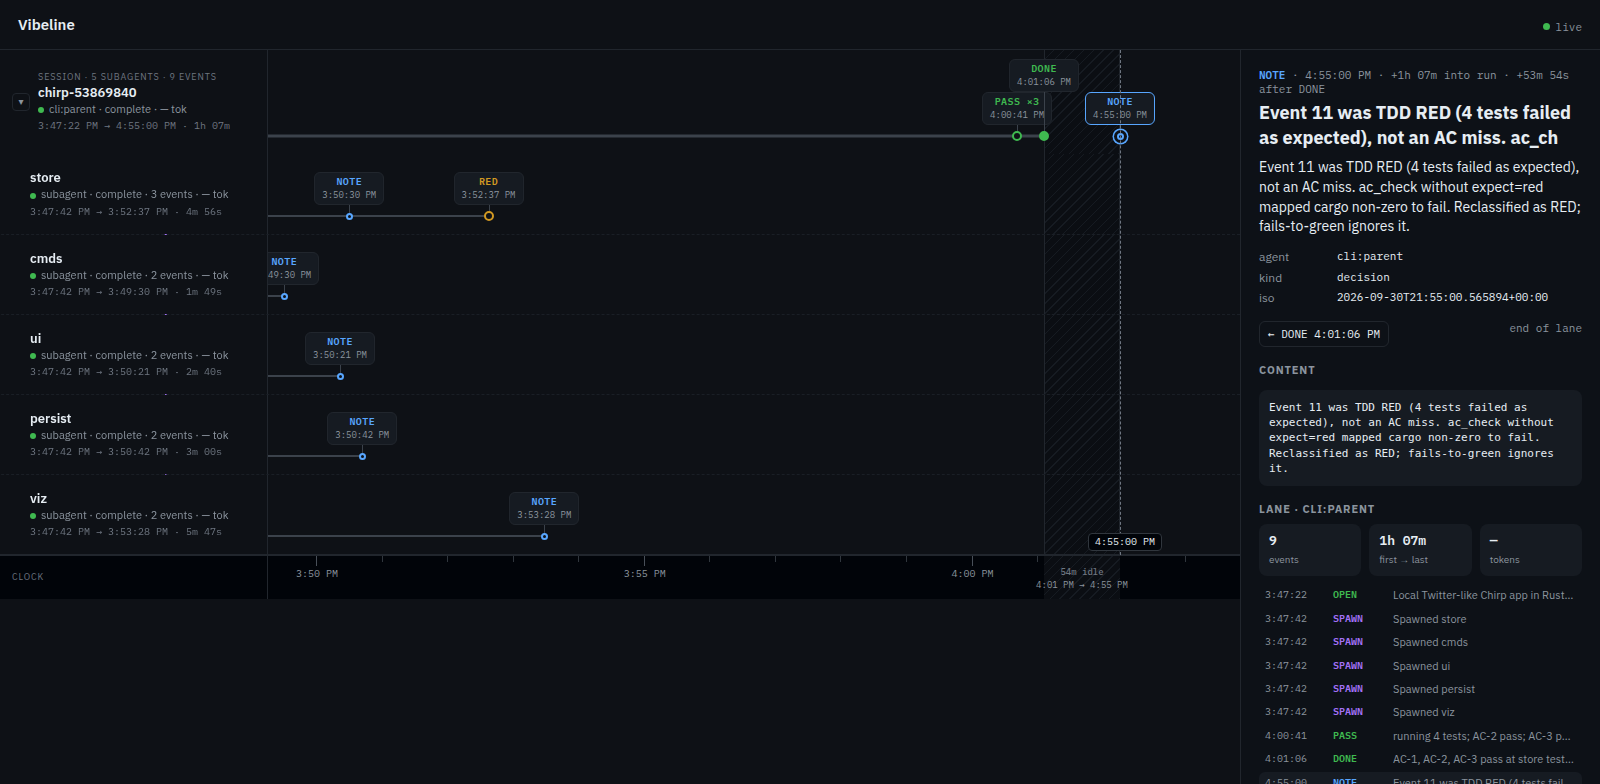
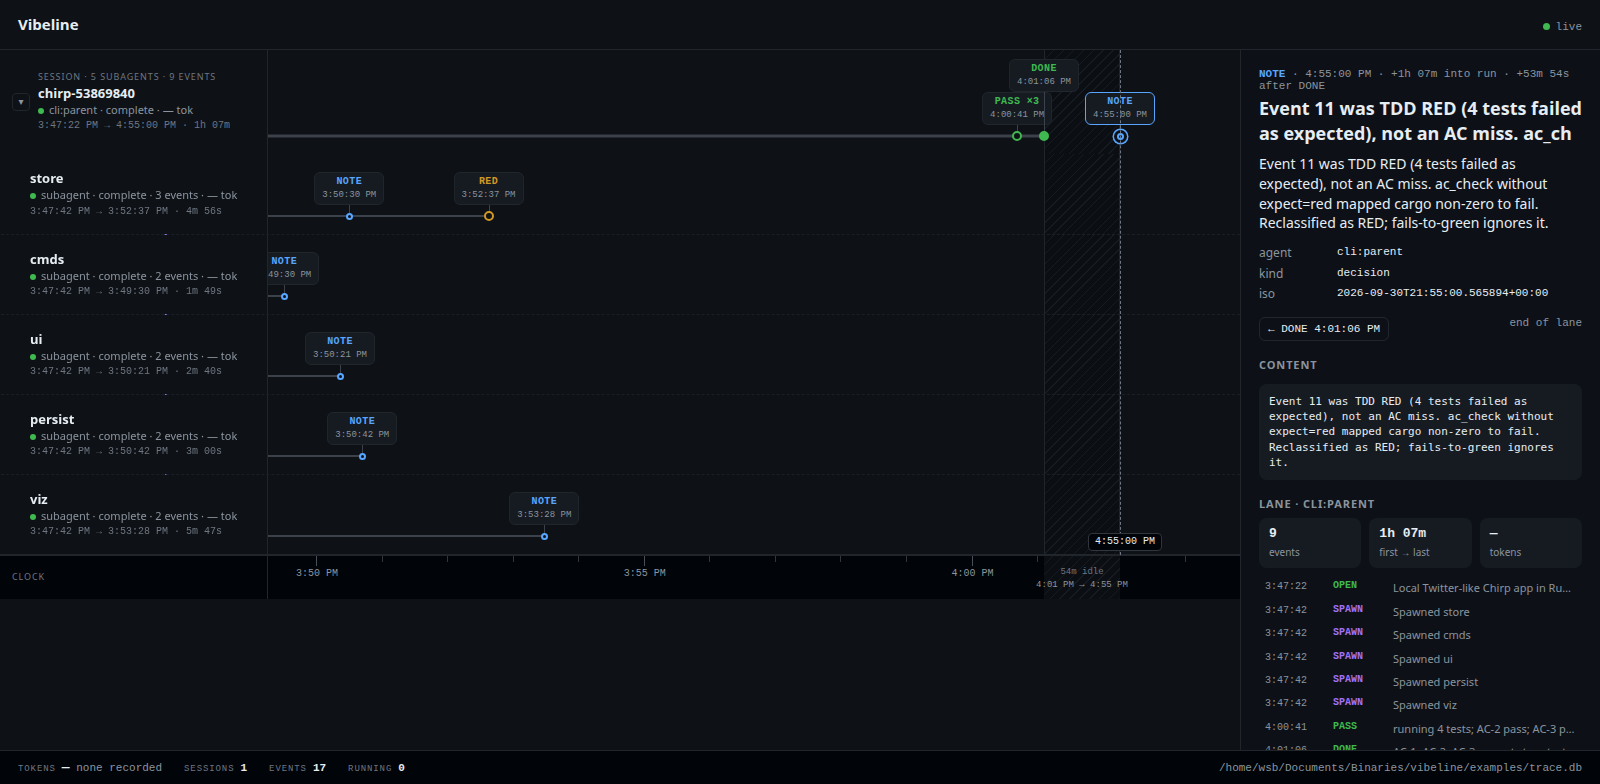
Catalog readiness: system fonts, disclosure section, requires_hermes, drop private Hermes import
- web/index.html: replace Google Fonts with system-ui / ui-monospace stacks; no third-party loads
- cli.py: render markdown with rich.markdown instead of hermes_cli private helper (catalog rule 9)
- plugin.yaml: declare requires_hermes >=0.22.0 (catalog rule 14)
- README: add disclosure section (catalog rule 13); retake web screenshots

diff --git a/web/index.html b/web/index.html
@@ -1,13 +1,14 @@
 <!DOCTYPE html>
 <html lang="en"><head>
 <meta charset="utf-8"/><title>Vibeline</title>
-<link href="https://fonts.googleapis.com/css2?family=IBM+Plex+Sans:wght@400;500;600;700&family=IBM+Plex+Mono:wght@400;500;600&display=swap" rel="stylesheet">
 <style>
-:root { --bg:#0e1116; --bg2:#0b0e13; --card:#161b22; --ink:#e6edf3; --mut:#8b949e; --dim:#6e7681;
+:root { --sans:system-ui,-apple-system,"Segoe UI",Roboto,Ubuntu,Cantarell,"Helvetica Neue",Arial,sans-serif;
+  --mono:ui-monospace,"SF Mono",Menlo,Consolas,"Liberation Mono","DejaVu Sans Mono",monospace;
+  --bg:#0e1116; --bg2:#0b0e13; --card:#161b22; --ink:#e6edf3; --mut:#8b949e; --dim:#6e7681;
   --line:#21262d; --rail:#3b424b; --railhot:#6e7681;
   --ok:#3fb950; --bad:#f85149; --fix:#d29922; --sp:#a371f7; --namew:268px; --rowh:104px; --subh:80px; --railoff:18px; }
 *{box-sizing:border-box}
-html,body{margin:0;height:100%;background:var(--bg);color:var(--ink);font:14px/1.4 "IBM Plex Sans",system-ui}
+html,body{margin:0;height:100%;background:var(--bg);color:var(--ink);font:14px/1.4 var(--sans)}
 header{display:flex;align-items:baseline;gap:16px;padding:14px 18px;border-bottom:1px solid var(--line)}
 h1{margin:0;font-size:15px;font-weight:600}
 .lede{color:var(--mut);font-size:12px;max-width:560px;margin:0}
@@ -28,7 +29,7 @@ h1{margin:0;font-size:15px;font-weight:600}
 .row.sub .name{padding-left:30px}
 .name b{display:block;font-size:13px;font-weight:600}
 .name span{color:var(--mut);font-size:11px;display:block;white-space:nowrap}
-.name .meta{font-family:"IBM Plex Mono",monospace;font-size:10px;color:var(--dim);margin-top:2px;white-space:nowrap}
+.name .meta{font-family:var(--mono);font-size:10px;color:var(--dim);margin-top:2px;white-space:nowrap}
 .parent-lab{font-size:9px;color:var(--dim);letter-spacing:.1em;text-transform:uppercase}
 .toggle{cursor:pointer;border:1px solid var(--line);background:transparent;color:var(--mut);width:18px;height:18px;border-radius:4px;font-size:10px;line-height:1;padding:0}
 .group:not(.open) .toggle{transform:rotate(-90deg)}
@@ -46,7 +47,7 @@ h1{margin:0;font-size:15px;font-weight:600}
 /* the break in the axis */
 .gap{position:absolute;top:0;bottom:0;background:var(--bg2);border-left:1px solid var(--line);border-right:1px solid var(--line);z-index:1;
   background-image:repeating-linear-gradient(135deg,transparent 0 6px,#161b22 6px 7px)}
-.gap i{position:absolute;left:50%;top:50%;transform:translate(-50%,-50%);font:9px/1 "IBM Plex Mono",monospace;color:var(--dim);
+.gap i{position:absolute;left:50%;top:50%;transform:translate(-50%,-50%);font:9px/1 var(--mono);color:var(--dim);
   background:var(--bg2);padding:2px 5px;border-radius:3px;font-style:normal;white-space:nowrap}
 .row.sub .gap i{display:none}
 
@@ -60,7 +61,7 @@ h1{margin:0;font-size:15px;font-weight:600}
 .leader.h{height:1px}
 .card{position:absolute;transform:translateX(-50%);cursor:pointer;z-index:3;
   padding:3px 7px 4px;border-radius:6px;background:var(--card);border:1px solid var(--line);
-  font:10px/1.15 "IBM Plex Mono",monospace;text-align:center;white-space:nowrap}
+  font:10px/1.15 var(--mono);text-align:center;white-space:nowrap}
 .card b{display:block;font-weight:600;letter-spacing:.04em;font-size:10px}
 .card small{display:block;color:var(--mut);font-size:9px;margin-top:2px}
 .card.t1{bottom:11px} .card.t2{bottom:44px}
@@ -87,24 +88,24 @@ svg.links path.blocked{stroke:var(--bad)}
 .foot-track{flex:1;position:relative}
 .tk{position:absolute;top:0;height:6px;border-left:1px solid #30363d}
 .tk.maj{height:10px;border-color:#484f58}
-.tk span{position:absolute;left:0;top:13px;transform:translateX(-50%);font:10px/1 "IBM Plex Mono",monospace;color:var(--mut);white-space:nowrap}
+.tk span{position:absolute;left:0;top:13px;transform:translateX(-50%);font:10px/1 var(--mono);color:var(--mut);white-space:nowrap}
 .tk.gapmark{border:0;top:0;height:100%;background:var(--bg2) repeating-linear-gradient(135deg,transparent 0 6px,#161b22 6px 7px)}
 .tk.gapmark span{color:var(--mut);top:10px;font-size:9px;line-height:1.4;text-align:center}
 .tk.gapmark span b{display:block;color:var(--dim);font-weight:500}
 
 /* hover guide */
 .guide{position:absolute;top:0;width:0;border-left:1px dashed var(--railhot);z-index:5;pointer-events:none;display:none}
-.guide em{position:absolute;bottom:4px;left:4px;transform:translateX(-50%);font:10px/1 "IBM Plex Mono",monospace;color:var(--ink);
+.guide em{position:absolute;bottom:4px;left:4px;transform:translateX(-50%);font:10px/1 var(--mono);color:var(--ink);
   background:#010409;border:1px solid #30363d;padding:3px 6px;border-radius:4px;font-style:normal;white-space:nowrap}
 
 /* panel */
 .panel{width:360px;flex:0 0 360px;border-left:1px solid var(--line);overflow:auto;padding:18px;background:#0d1117}
 .panel h2{margin:0 0 8px;font-size:18px}
 .panel h3{margin:16px 0 6px;font-size:11px;color:var(--mut);letter-spacing:.08em;text-transform:uppercase}
-.kicker{font:11px "IBM Plex Mono",monospace;margin:0 0 4px;color:var(--mut)}
+.kicker{font:11px var(--mono);margin:0 0 4px;color:var(--mut)}
 .kicker b{font-weight:600}
 dl{display:grid;grid-template-columns:70px 1fr;gap:4px 8px;font-size:12px;margin:0}
-dt{color:var(--mut)} dd{margin:0;font-family:"IBM Plex Mono",monospace;font-size:11px}
+dt{color:var(--mut)} dd{margin:0;font-family:var(--mono);font-size:11px}
 pre{background:#161b22;padding:10px;border-radius:8px;white-space:pre-wrap;font-size:11px;overflow:auto}
 .ac{list-style:none;padding:0;margin:0}
 .ac .ok{color:var(--ok)} .ac .no{color:var(--bad)}
@@ -117,15 +118,15 @@ figcaption{font-size:10px;color:var(--mut);margin-top:4px}
 .src{margin:12px 0 0;padding:10px 12px;border:1px solid var(--line);border-radius:8px;background:#0f1319;font-size:11px}
 .src .hd{display:flex;align-items:center;gap:8px;margin-bottom:6px}
 .src .hd b{font-size:12px}
-.trk{font:9px/1 "IBM Plex Mono",monospace;letter-spacing:.08em;text-transform:uppercase;padding:3px 6px;border-radius:4px;border:1px solid}
+.trk{font:9px/1 var(--mono);letter-spacing:.08em;text-transform:uppercase;padding:3px 6px;border-radius:4px;border:1px solid}
 .trk.linear{color:#5e6ad2;border-color:#5e6ad2} .trk.github{color:#e6edf3;border-color:#8b949e} .trk.jira{color:#2684ff;border-color:#2684ff}
-.src .br{font:10px "IBM Plex Mono",monospace;color:var(--mut);margin-bottom:8px;white-space:pre-wrap}
+.src .br{font:10px var(--mono);color:var(--mut);margin-bottom:8px;white-space:pre-wrap}
 .src .br em{color:var(--ok);font-style:normal}
 .src dl{grid-template-columns:64px 1fr;font-size:11px}
 .src dd{font-size:10px;color:var(--mut)} .src dd b{color:var(--ink);font-weight:500}
 .src a{color:var(--ink)}
-.name .tick{font:10px "IBM Plex Mono",monospace;color:var(--mut);display:flex;gap:6px;align-items:center;margin-top:2px}
-.lanenav{display:flex;justify-content:space-between;gap:8px;margin:14px 0 0;font:11px "IBM Plex Mono",monospace}
+.name .tick{font:10px var(--mono);color:var(--mut);display:flex;gap:6px;align-items:center;margin-top:2px}
+.lanenav{display:flex;justify-content:space-between;gap:8px;margin:14px 0 0;font:11px var(--mono)}
 .lanenav a{color:var(--ink);text-decoration:none;border:1px solid var(--line);border-radius:6px;padding:5px 8px}
 .lanenav a:hover{border-color:var(--mut)}
 .ev.quiet .dot{width:7px;height:7px;left:-3.5px;top:-3.5px}
@@ -139,11 +140,11 @@ header{flex:0 0 auto}
 .card.k-note b{color:#58a6ff}
 .card b{max-width:62px;overflow:hidden;text-overflow:ellipsis;margin:0 auto} .card.k-red b{color:var(--fix)}
 .dot.kind-note{width:7px;height:7px;left:-3.5px;top:-3.5px}
-.live{margin-left:auto;font:11px "IBM Plex Mono",monospace;color:var(--mut);display:flex;align-items:center;gap:6px}
+.live{margin-left:auto;font:11px var(--mono);color:var(--mut);display:flex;align-items:center;gap:6px}
 .live i{width:7px;height:7px;border-radius:50%;background:var(--ok)}
 .live.off i{background:var(--bad)}
 .bar{flex:0 0 34px;display:flex;align-items:center;gap:22px;padding:0 18px;border-top:1px solid var(--line);background:#010409;
-  font:11px "IBM Plex Mono",monospace;color:var(--mut);white-space:nowrap;overflow:hidden}
+  font:11px var(--mono);color:var(--mut);white-space:nowrap;overflow:hidden}
 .bar b{color:var(--ink);font-weight:600}
 .bar .tot b{font-size:13px}
 .bar .lab{font-size:9px;letter-spacing:.1em;text-transform:uppercase;color:var(--dim);margin-right:6px}
@@ -152,33 +153,33 @@ header{flex:0 0 auto}
 .brief{margin:0 0 12px}
 dl{grid-template-columns:70px minmax(0,1fr)} dd{overflow-wrap:anywhere}
 .ac li{margin-bottom:8px}
-.ac .hist{font:10px "IBM Plex Mono",monospace;color:var(--mut);margin:2px 0 0 14px}
+.ac .hist{font:10px var(--mono);color:var(--mut);margin:2px 0 0 14px}
 .ac .hist a{color:inherit;text-decoration:none}
 .ac .hist a:hover{color:var(--ink)}
 details{margin:4px 0 0 14px} summary{cursor:pointer;color:var(--mut);font-size:11px}
 .log{list-style:none;margin:0;padding:0;font-size:11px}
 .log li{display:grid;grid-template-columns:62px 54px minmax(0,1fr);gap:6px;padding:4px 6px;border-radius:6px;cursor:pointer}
 .log li:hover,.log li.on{background:#161b22}
-.log time{font-family:"IBM Plex Mono",monospace;font-size:10px;color:var(--mut)}
-.log b{font:600 10px "IBM Plex Mono",monospace}
+.log time{font-family:var(--mono);font-size:10px;color:var(--mut)}
+.log b{font:600 10px var(--mono)}
 .log span{color:var(--mut);overflow:hidden;text-overflow:ellipsis;white-space:nowrap}
 .stats{display:grid;grid-template-columns:repeat(3,1fr);gap:8px;margin:0}
 .stats div{background:#161b22;border-radius:8px;padding:8px 10px}
-.stats b{display:block;font:600 13px "IBM Plex Mono",monospace}
+.stats b{display:block;font:600 13px var(--mono)}
 .stats span{font-size:10px;color:var(--mut)}
 .empty{padding:40px;color:var(--mut)}
 .st.idle{background:var(--dim)}
 .name>div{min-width:0} .name b,.name span{overflow:hidden;text-overflow:ellipsis;white-space:nowrap}
 .name b.open{cursor:pointer}
 .name b.open:hover{text-decoration:underline}
-.back,.gohdr{display:none;font:12px "IBM Plex Sans",system-ui;color:var(--ink);background:#161b22;border:1px solid var(--line);border-radius:6px;padding:4px 10px;cursor:pointer}
+.back,.gohdr{display:none;font:12px var(--sans);color:var(--ink);background:#161b22;border:1px solid var(--line);border-radius:6px;padding:4px 10px;cursor:pointer}
 body.focus .back{display:block}
 body.focus.sessions .gohdr{display:block}
-.term{margin-left:auto;flex:0 0 auto;cursor:pointer;border:1px solid var(--line);background:transparent;color:var(--mut);border-radius:4px;font:10px/1 "IBM Plex Mono",monospace;padding:5px 7px;white-space:nowrap}
+.term{margin-left:auto;flex:0 0 auto;cursor:pointer;border:1px solid var(--line);background:transparent;color:var(--mut);border-radius:4px;font:10px/1 var(--mono);padding:5px 7px;white-space:nowrap}
 .term:hover,.gohdr:hover{color:var(--ink);border-color:var(--mut)}
-.go{display:block;width:100%;margin:12px 0 0;font:12px "IBM Plex Mono",monospace;color:var(--ink);background:#161b22;border:1px solid var(--line);border-radius:6px;padding:8px 10px;cursor:pointer;text-align:left}
+.go{display:block;width:100%;margin:12px 0 0;font:12px var(--mono);color:var(--ink);background:#161b22;border:1px solid var(--line);border-radius:6px;padding:8px 10px;cursor:pointer;text-align:left}
 .go:hover{border-color:var(--mut)}
-.note{font:11px "IBM Plex Mono",monospace;color:var(--mut);max-width:280px;overflow:hidden;text-overflow:ellipsis;white-space:nowrap}
+.note{font:11px var(--mono);color:var(--mut);max-width:280px;overflow:hidden;text-overflow:ellipsis;white-space:nowrap}
 .note.ok{color:var(--ok)} .note.bad{color:var(--bad)}
 body.focus .lede{color:var(--ink);font-size:13px;font-weight:500}
 body.focus .group{border-bottom:0}

diff --git a/cli.py b/cli.py
@@ -9,10 +9,10 @@ from . import sessions as hermes_sessions
 
 def _print_md(md: str) -> None:
     try:
-        from hermes_cli.cli_render import _render_final_assistant_content
         from rich.console import Console
+        from rich.markdown import Markdown
 
-        Console().print(_render_final_assistant_content(md))
+        Console().print(Markdown(md))
     except Exception:
         print(md, end="" if md.endswith("\n") else "\n")
 

diff --git a/README.md b/README.md
@@ -117,6 +117,19 @@ python3 /path/to/vibeline rails
 python3 /path/to/vibeline web --open
 ```
 
+## What vibeline touches (disclosure)
+
+- **Reads outside its own data:** `~/.hermes/state.db` (Hermes session store, opened read-only) and the ledger
+  SQLite you point it at. It never writes to either.
+- **Writes:** `~/.hermes/tui-widgets/rails.mjs` (the TUI widget) at registration and on each `/rails`.
+- **Shell commands:** `hermes vibeline open` and the web UI's open/resume button launch your terminal emulator
+  running `hermes --resume <id>`. Nothing runs without that explicit action.
+- **Background processes:** `hermes vibeline web` runs a local HTTP server bound to `127.0.0.1` until you stop it.
+- **Network:** none. The web UI is served locally and loads no third-party resources.
+- **Credentials and telemetry:** none read, none stored, none sent.
+- **Environment variables read:** `HERMES_HOME`, `VIBELINE_DB`, `TRACE_DB`, `VIBELINE_TERMINAL`, `DISPLAY`,
+  `WAYLAND_DISPLAY`. None are secrets.
+
 ## Tools exposed to the model
 
 - `vibeline_rails {task_id?, db?, show_tokens?}` returns `{ok, task_id, db, markdown}`
